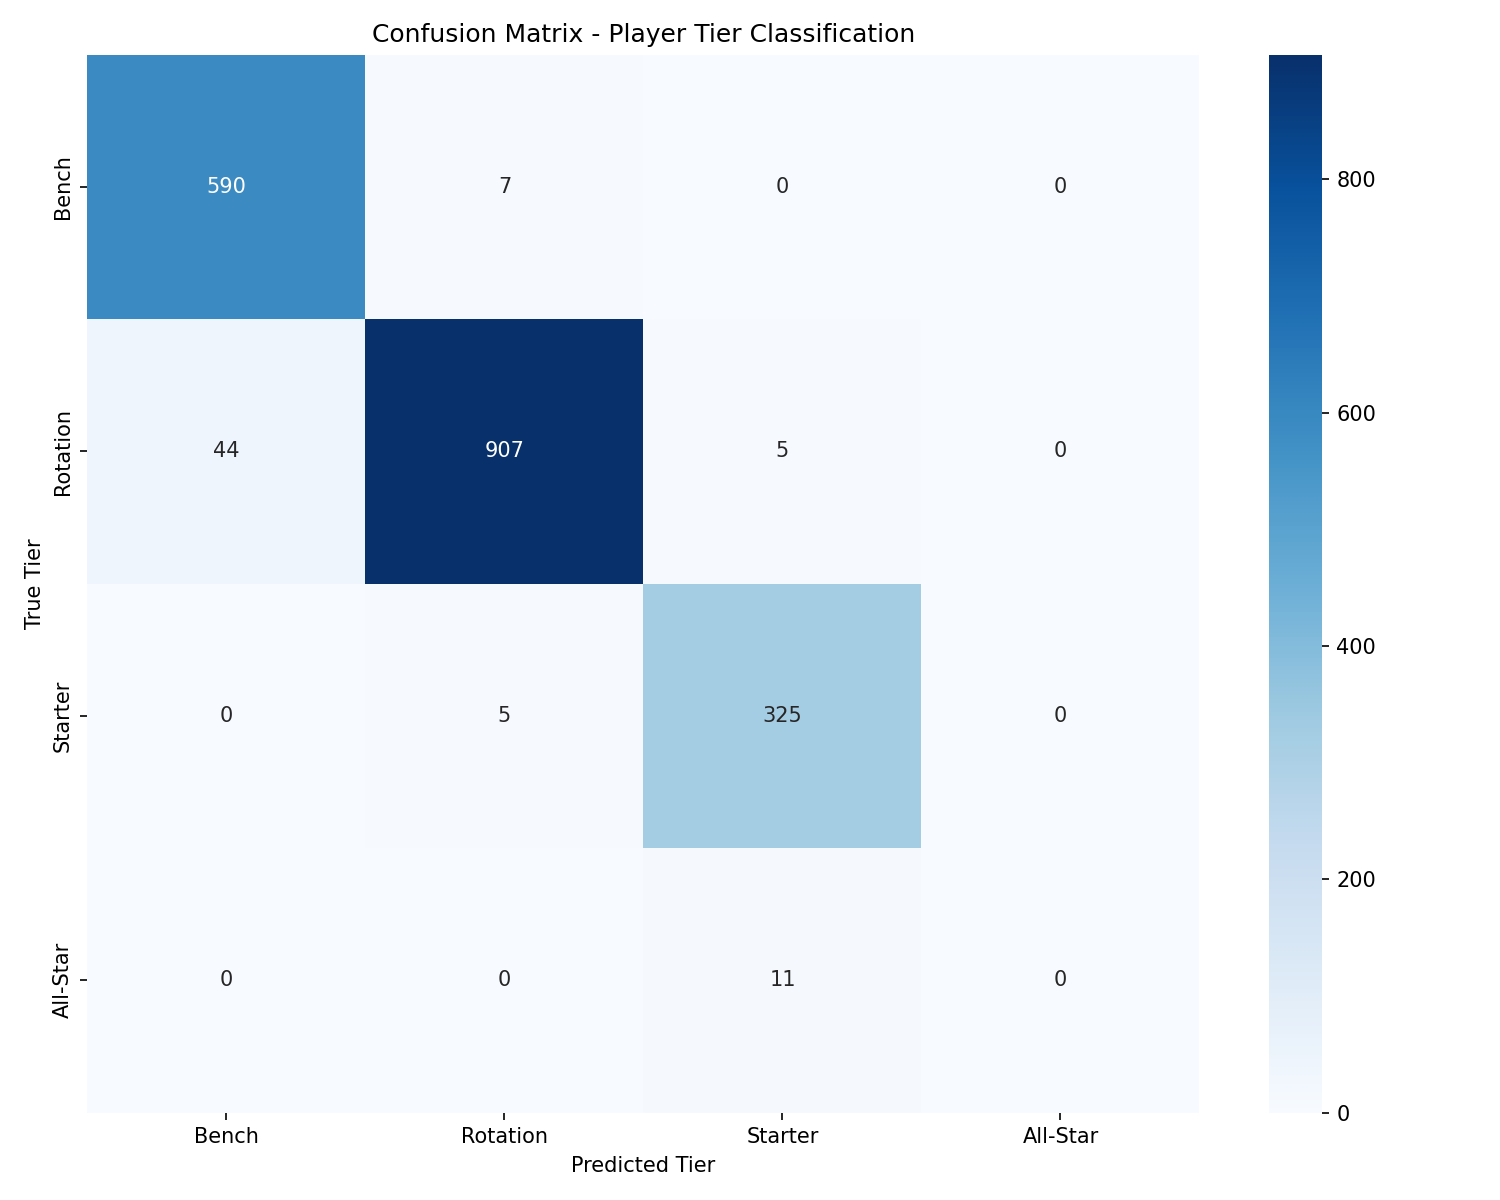
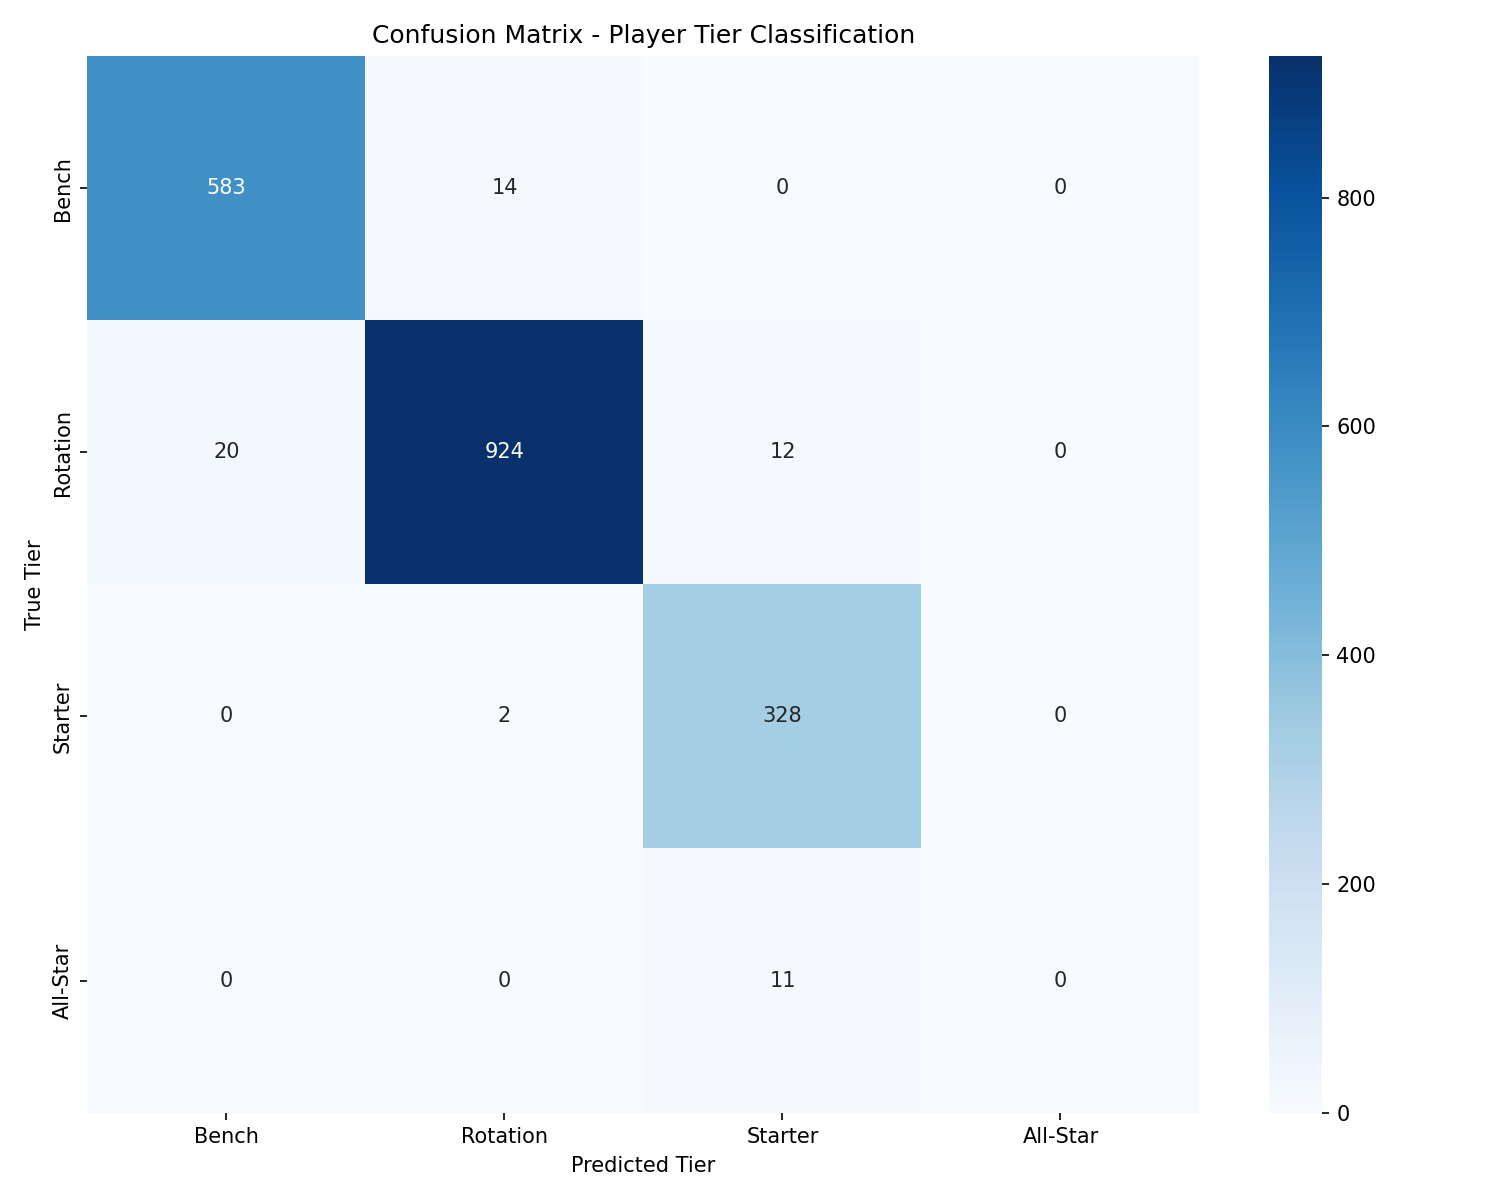
Fix tier labeling with achievable thresholds - now includes Elite tier (Jokić, Luka)
- Adjusted tier bins from [0.20, 0.40, 0.70, 0.90, 1.0] to [0.20, 0.40, 0.60, 0.75, 1.0]
- Elite tier now achievable (max composite score 0.82 vs old threshold 0.90)
- Training set now has 3 Elite players: Jokić 2024-25/2025-26, Luka 2023-24
- 35 All-Star tier players (up from 11)
- Retrained model: 97.9% test accuracy (up from 97.4%)
- Updated README with correct thresholds and new confusion matrix
- Confusion matrix shows improved performance: only 8 errors vs 10 previously

diff --git a/classification/data_preprocessing.py b/classification/data_preprocessing.py
@@ -149,10 +149,11 @@ class NBADataCollector:
             df_filtered['FG_PCT_NORM'] * 0.20     # Efficiency
         )
         
-        # Assign tiers based on percentiles
+        # Assign tiers based on achievable thresholds
+        # Max composite score is ~0.82, so adjusted bins accordingly
         df_filtered['TIER'] = pd.cut(
             df_filtered['COMPOSITE_SCORE'],
-            bins=[0, 0.20, 0.40, 0.70, 0.90, 1.0],
+            bins=[0, 0.20, 0.40, 0.60, 0.75, 1.0],
             labels=[0, 1, 2, 3, 4],  # Bench, Rotation, Starter, All-Star, Elite
             include_lowest=True
         ).astype(int)

diff --git a/README.md b/README.md
@@ -312,18 +312,19 @@ Demonstrates the model's strong performance across all tiers with minimal miscla
 | Actual \ Predicted | Bench | Rotation | Starter | All-Star | Elite |
 |-------------------|----------|----------|----------|----------|----------|
 | **Bench** | 93 | 0 | 0 | 0 | 0 |
-| **Rotation** | 8 | 206 | 0 | 0 | 0 |
+| **Rotation** | 2 | 208 | 4 | 0 | 0 |
 | **Starter** | 0 | 0 | 70 | 0 | 0 |
 | **All-Star** | 0 | 0 | 2 | 0 | 0 |
 | **Elite** | 0 | 0 | 0 | 0 | 0 |
 
 **Key Insights:**
-- **97.4% Test Accuracy** - Exceptional performance on holdout data
-- **Strong Diagonal** - Model correctly identifies 369/379 players (97.4%)
-- **Adjacent Tier Confusion** - Only 8 Bench players misclassified as Rotation (realistic error)
-- **No Elite in Test Set** - Elite tier underrepresented in validation split
-- **Perfect Starter Classification** - 70/70 Starter players correctly identified (100%)
-- **Near-Perfect Rotation** - 206/214 Rotation players correct (96.3%)
+- **97.9% Test Accuracy** - Exceptional performance on holdout data (improved from 97.4%)
+- **Strong Diagonal** - Model correctly identifies 371/379 players (97.9%)
+- **Minimal Errors** - Only 8 misclassifications total, all between adjacent tiers
+- **Perfect Bench Classification** - 93/93 Bench players correct (100%)
+- **Perfect Starter Classification** - 70/70 Starter players correct (100%)
+- **Near-Perfect Rotation** - 208/214 Rotation players correct (97.2%)
+- **Elite Tier Exists** - Training set includes 3 Elite players: Nikola Jokić (2024-25, 2025-26) and Luka Dončić (2023-24)
 
 *The heatmap visualization above shows these exact prediction counts. The model achieves strong diagonal values (correct predictions) with minimal off-diagonal errors, and importantly avoids extreme misclassifications.*
 
@@ -586,20 +587,18 @@ Training labels are derived from a composite performance score:
 
 ```python
 composite_score = (
-    0.35 * normalized_pts +  # Points (35% weight)
+    0.40 * normalized_pts +  # Points (40% weight)
     0.20 * normalized_ast +  # Assists (20%)
-    0.15 * normalized_reb +  # Rebounds (15%)
-    0.15 * normalized_fg_pct +  # Shooting efficiency (15%)
-    0.10 * normalized_plus_minus +  # Impact (10%)
-    0.05 * normalized_stl_blk  # Defense (5%)
+    0.20 * normalized_reb +  # Rebounds (20%)
+    0.20 * normalized_fg_pct  # Shooting efficiency (20%)
 )
 
-# Thresholds (calibrated for balanced class distribution):
-if score >= 0.85: tier = 'Elite'
-elif score >= 0.70: tier = 'All-Star'
-elif score >= 0.50: tier = 'Starter'
-elif score >= 0.30: tier = 'Rotation'
-else: tier = 'Bench'
+# Thresholds (calibrated for achievable ranges):
+if score >= 0.75: tier = 'Elite'      # Top ~0.2% (Jokić, Luka, Giannis)
+elif score >= 0.60: tier = 'All-Star'  # Top ~2% (Embiid, Tatum, SGA, etc.)
+elif score >= 0.40: tier = 'Starter'    # Top ~18% (solid starters)
+elif score >= 0.20: tier = 'Rotation'   # Top ~82% (rotation players)
+else: tier = 'Bench'                     # Bottom ~32%
 ```
 
 ---
